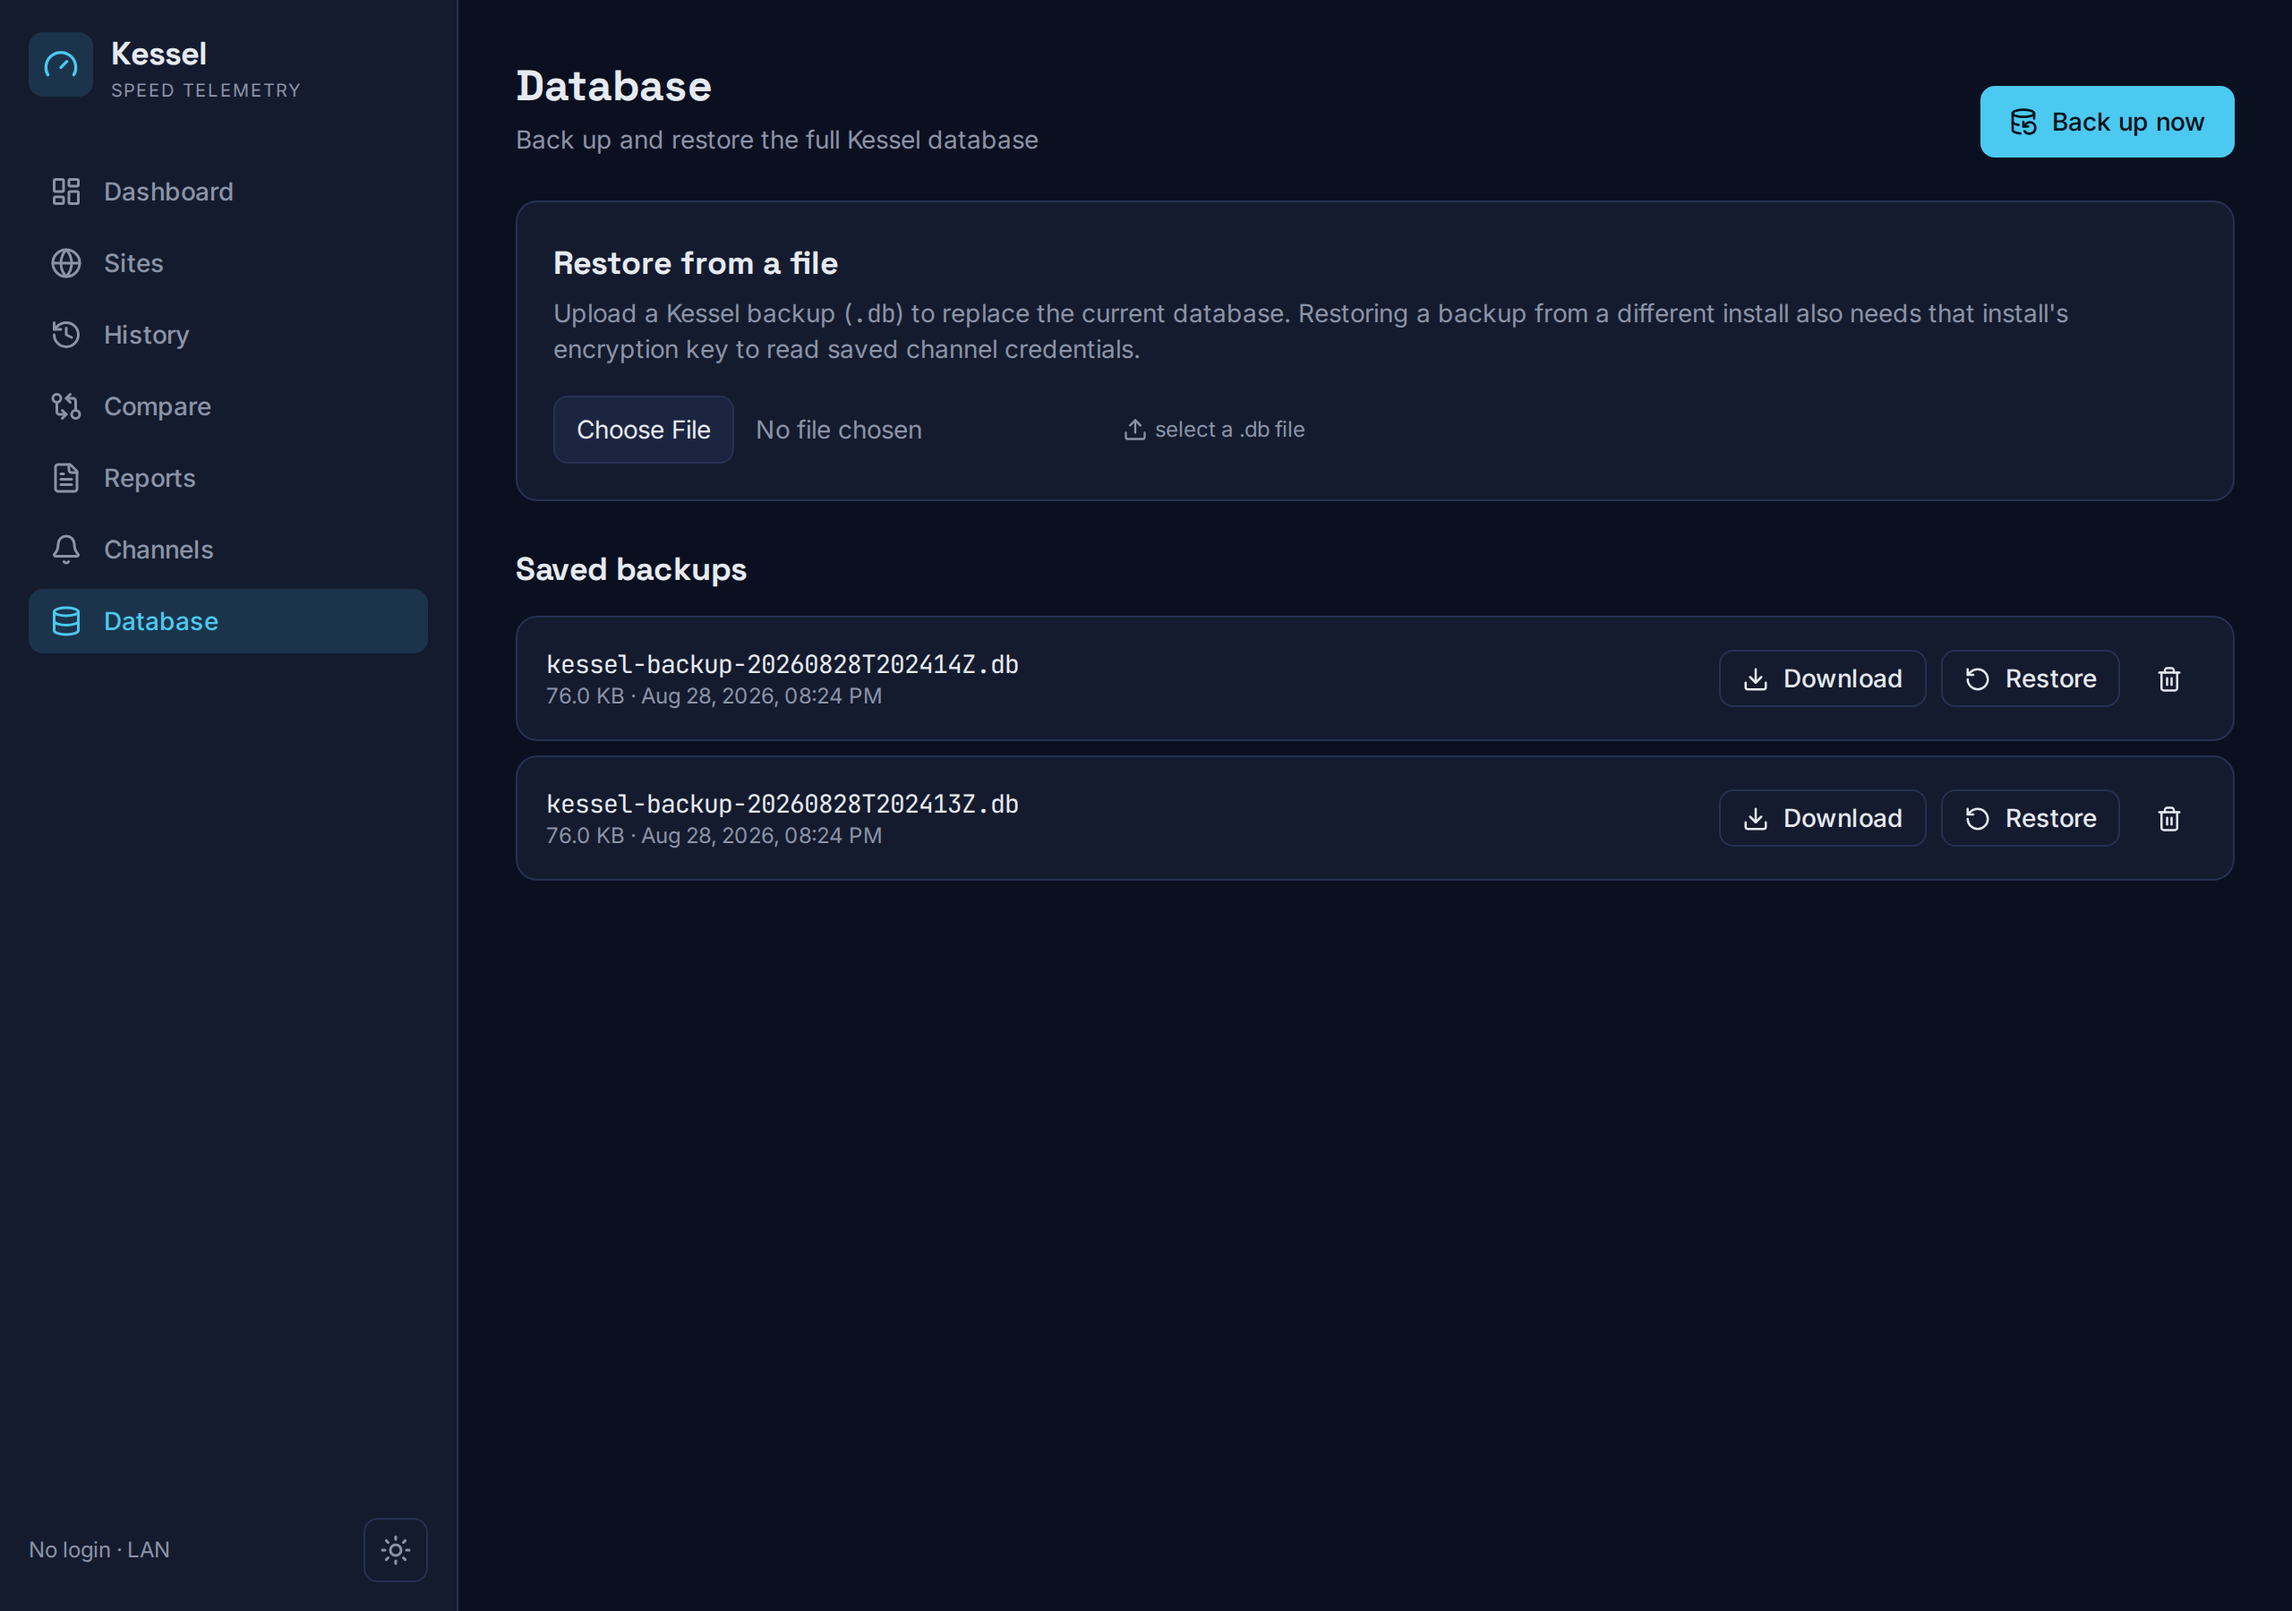
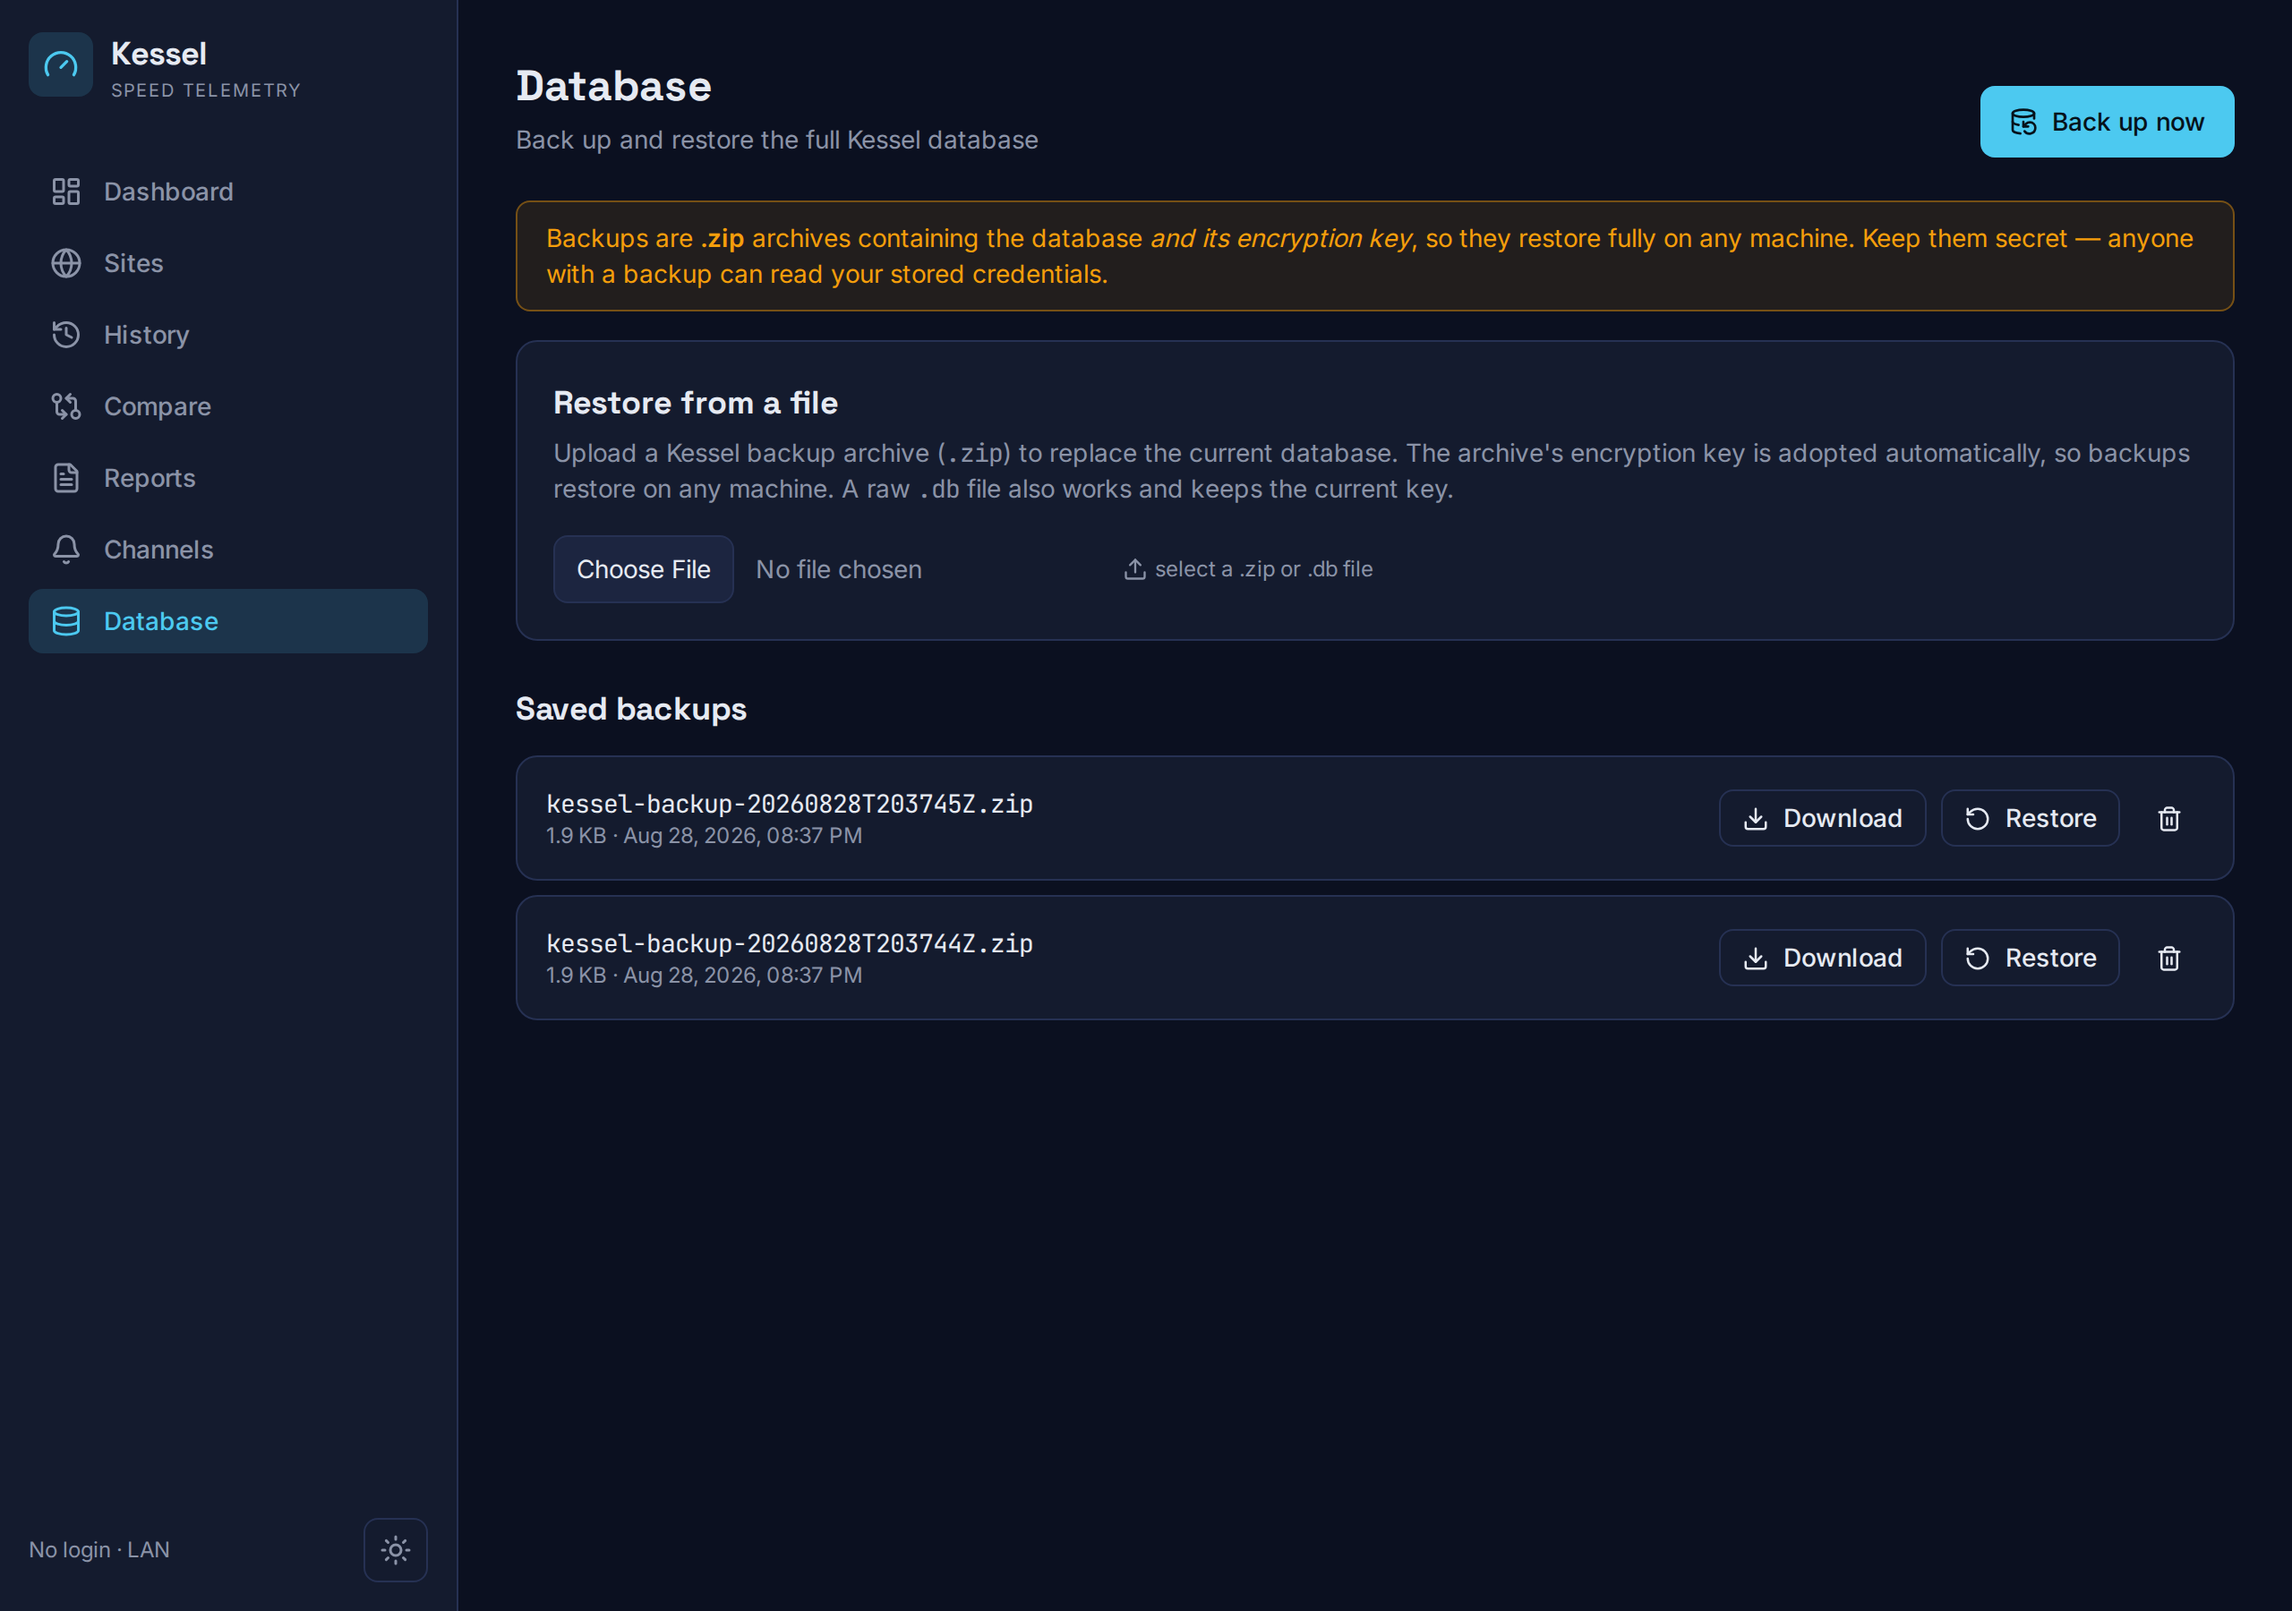
docs: document backup archive format (db + key) and refresh screenshot

diff --git a/README.md b/README.md
@@ -24,7 +24,7 @@ as a **single static binary** with an embedded React UI — drop it on your LAN 
 - **History & comparison** — per-site trend charts and a side-by-side two-run diff with score/metric deltas.
 - **Thresholds & alerts** — **per-site**, per-category rules in **absolute** (below X) or **delta** (dropped > Y) mode.
 - **Notification channels** — Shoutrrr (Slack, Discord, Telegram, email, ntfy, …) and GreenAPI (WhatsApp cloud), each with success/failure toggles and a real "send test". Credentials **encrypted at rest (AES-256-GCM)**. Channels are defined once and **selected per site**, so each site alerts only its chosen channels.
-- **Backup & restore** — one-click database backup (consistent `VACUUM INTO` snapshot, timestamped filename) saved to the data folder **and** downloaded to your browser; restore from a saved backup or an uploaded file, applied live with no restart.
+- **Backup & restore** — one-click backup writes a timestamped `.zip` archive (a consistent `VACUUM INTO` snapshot **plus the encryption key**) to the data folder **and** downloads it. Restore from a saved archive or an upload, applied live with no restart; the archived key is adopted automatically so backups restore on **any** machine. (A raw `.db` file also restores and keeps the current key.) The archive contains the key, so keep backup files secret.
 - **Prometheus metrics** at `/metrics`, structured `log/slog` logging, safe concurrency with configurable spacing.
 - **No login, ever** — built for a trusted LAN; it never assumes it's internet-facing and never requires auth.
 
@@ -56,7 +56,7 @@ Reusable notification channels (Shoutrrr, GreenAPI) with a real "send test".
 ![Channels](assets/screenshots/channels.png)
 
 ### Database
-One-click backup (saved to the data folder and downloaded) and restore from a saved backup or an uploaded file.
+One-click backup to a `.zip` archive (database + encryption key), saved to the data folder and downloaded; restore from a saved archive or an upload.
 
 ![Database backup & restore](assets/screenshots/database.png)
 
